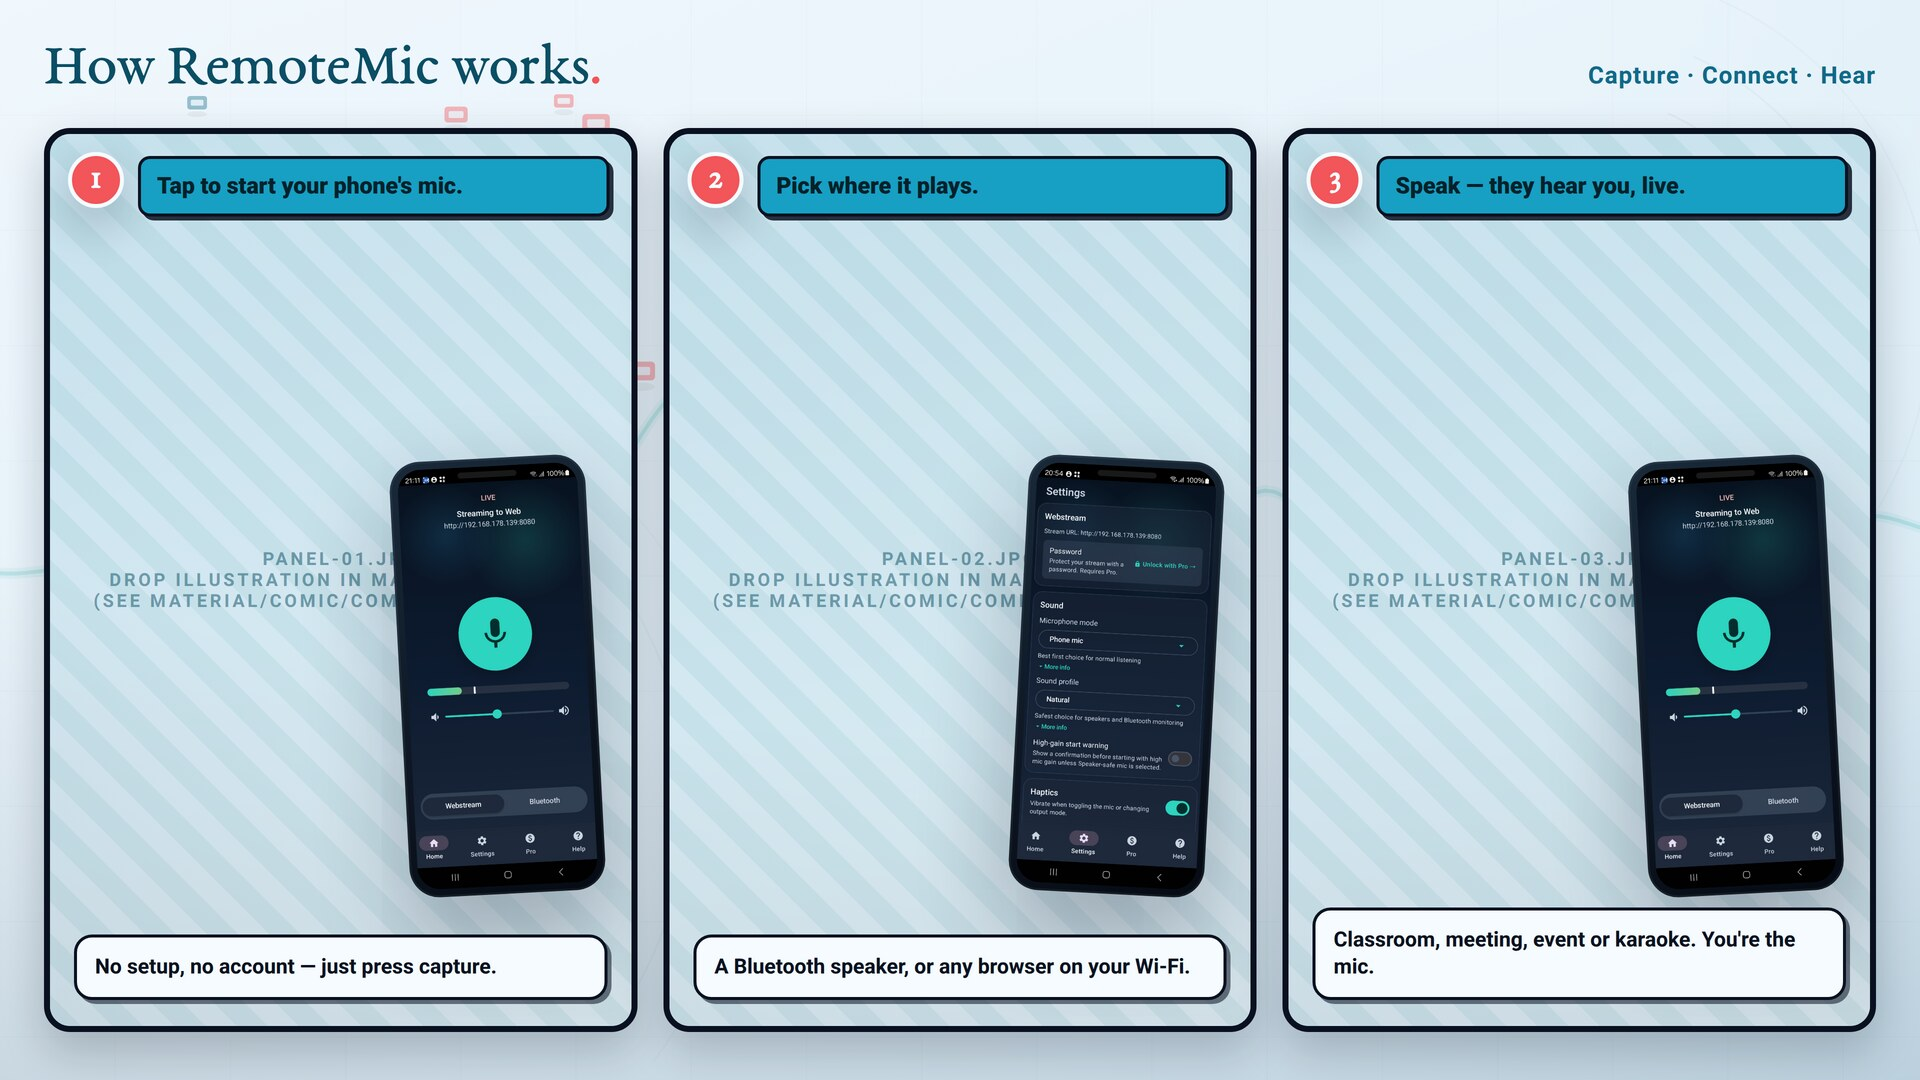
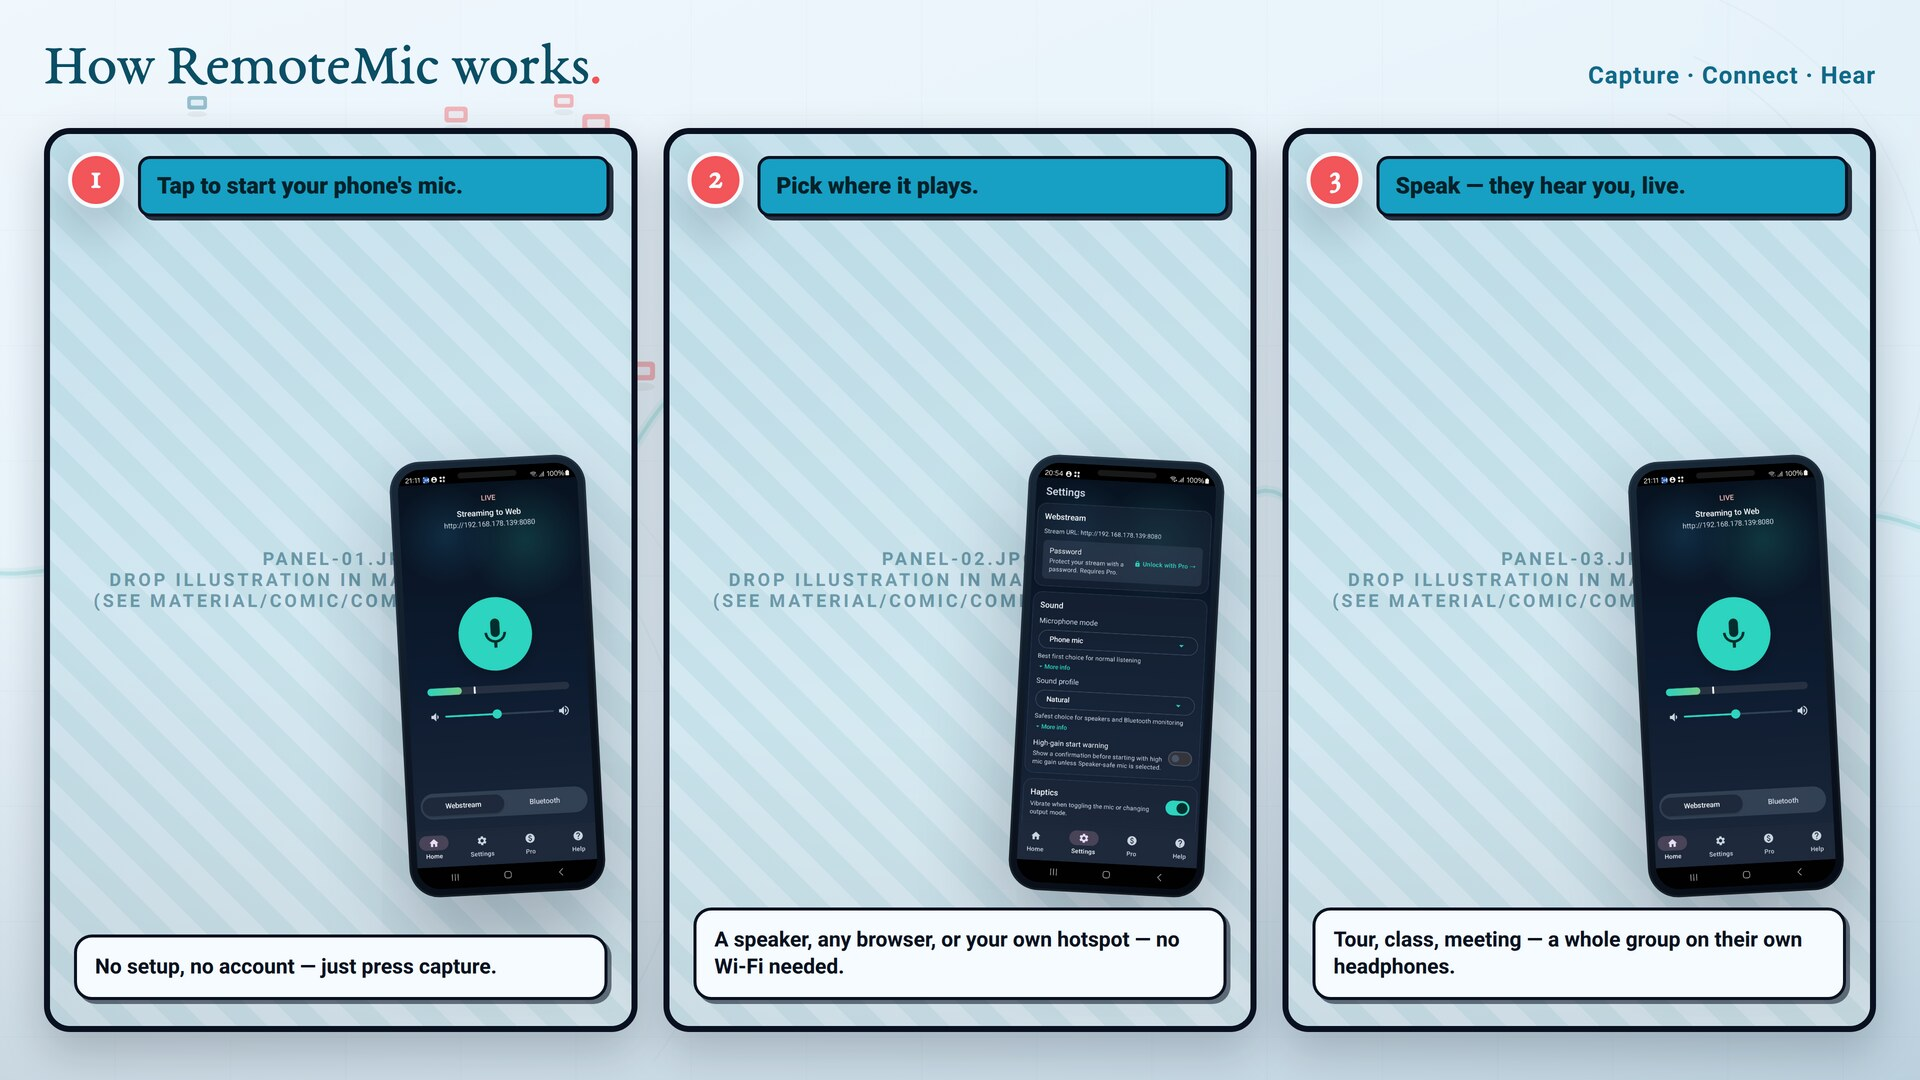
Publish: hotspot + group-on-headphones positioning; drop karaoke; new scenes

Changed region(s): [[0.3438, 0.825, 0.6562, 0.9167], [0.6875, 0.8556, 0.9375, 0.9167]]

diff --git a/index.html b/index.html
@@ -4,16 +4,17 @@
 <meta charset="utf-8">
 <meta name="viewport" content="width=device-width, initial-scale=1">
 <title>RemoteMic — Turn Your Phone Into a Wireless Microphone</title>
-<meta name="description" content="RemoteMic turns your Android phone into a wireless microphone. Stream your voice to a Bluetooth speaker or any browser on your Wi-Fi — instant, local, no account. Great for classrooms, meetings, events and karaoke.">
+<meta name="description" content="RemoteMic turns your Android phone into a wireless microphone. Stream your voice to a Bluetooth speaker, any browser on your Wi-Fi, or a hotspot you create — so a whole group listens on their own headphones, even with no Wi-Fi. Instant, local, no account. Great for tour guides, classrooms, assistive listening and meetings.">
 <link rel="canonical" href="https://northforceapps.github.io/remotemic/">
 <meta name="theme-color" content="#0c7e7b">
-<meta name="keywords" content="wireless microphone app, phone as microphone, Bluetooth microphone, phone to speaker, voice amplifier, megaphone app, PA system, microphone over Wi-Fi, karaoke microphone, Android microphone">
+<!-- Google Search Console verified via the google75215c703ae23b13.html file at site root. -->
+<meta name="keywords" content="wireless microphone app, phone as microphone, Bluetooth microphone, phone to speaker, voice amplifier, megaphone app, PA system, microphone over Wi-Fi, tour guide system, assistive listening app, group audio over hotspot, no Wi-Fi audio streaming, Android microphone">
 
 <!-- Open Graph -->
 <meta property="og:type" content="website">
 <meta property="og:site_name" content="RemoteMic">
 <meta property="og:title" content="RemoteMic — Turn Your Phone Into a Wireless Microphone">
-<meta property="og:description" content="Stream your phone's mic to a Bluetooth speaker or any browser on your Wi-Fi. Instant, local, no account.">
+<meta property="og:description" content="Stream your phone's mic to a Bluetooth speaker, any browser on your Wi-Fi, or your own hotspot — a whole group listens on their own headphones, no Wi-Fi needed. Instant, local, no account.">
 <meta property="og:url" content="https://northforceapps.github.io/remotemic/">
 <meta property="og:image" content="https://northforceapps.github.io/remotemic/assets/feature_graphic.png">
 <meta property="og:image:width" content="1024">
@@ -21,7 +22,7 @@
 <!-- Twitter -->
 <meta name="twitter:card" content="summary_large_image">
 <meta name="twitter:title" content="RemoteMic — Turn Your Phone Into a Wireless Microphone">
-<meta name="twitter:description" content="Stream your phone's mic to a Bluetooth speaker or any browser on your Wi-Fi. Instant, local, no account.">
+<meta name="twitter:description" content="Stream your phone's mic to a Bluetooth speaker, any browser on your Wi-Fi, or your own hotspot — a whole group listens on their own headphones, no Wi-Fi needed. Instant, local, no account.">
 <meta name="twitter:image" content="https://northforceapps.github.io/remotemic/assets/feature_graphic.png">
 
 <link rel="icon" href="assets/icon.png" type="image/png">
@@ -40,12 +41,12 @@
   "name":"RemoteMic",
   "operatingSystem":"Android 11+",
   "applicationCategory":"MultimediaApplication",
-  "description":"RemoteMic turns your Android phone into a wireless microphone. Stream live mic audio to a Bluetooth speaker or any browser on your local Wi-Fi/LAN — no account, no cloud.",
+  "description":"RemoteMic turns your Android phone into a wireless microphone. Stream live mic audio to a Bluetooth speaker, any browser on your local Wi-Fi/LAN, or a private hotspot you create — so a whole group listens on their own headphones, even with no Wi-Fi. No account, no cloud.",
   "url":"https://northforceapps.github.io/remotemic/",
   "image":"https://northforceapps.github.io/remotemic/assets/feature_graphic.png",
   "downloadUrl":"https://play.google.com/store/apps/details?id=com.stream.remotemic",
   "offers":{"@type":"Offer","price":"0","priceCurrency":"USD"},
-  "featureList":["Phone microphone to Bluetooth speaker or headset","Live audio streaming to any browser over Wi-Fi/LAN","One phone to many listeners","Real-time gain control and four voice profiles","Optional password protection for shared sessions","Works with the screen off","No account, local streaming"]
+  "featureList":["Phone microphone to Bluetooth speaker or headset","Live audio streaming to any browser over Wi-Fi/LAN","Create a private hotspot to stream with no Wi-Fi","One phone to many listeners on their own headphones","Real-time gain control and four voice profiles","Feedback-safe — listeners on personal headphones","Optional password protection for shared sessions","Works with the screen off","No account, local streaming"]
 }
 </script>
 <!-- Structured data: FAQ -->
@@ -57,6 +58,9 @@
     {"@type":"Question","name":"Can I use my phone as a microphone for a Bluetooth speaker?","acceptedAnswer":{"@type":"Answer","text":"Yes. Pair your Bluetooth speaker or headset, choose Bluetooth output in RemoteMic, and your voice plays through the speaker in real time."}},
     {"@type":"Question","name":"Does RemoteMic need an internet connection?","acceptedAnswer":{"@type":"Answer","text":"No. Core streaming runs on your local Wi-Fi/LAN. Listeners open a link in a browser on the same network — no account and no cloud upload."}},
     {"@type":"Question","name":"How many people can listen at once?","acceptedAnswer":{"@type":"Answer","text":"One phone can stream to many browser listeners on the same network at the same time. They just open the link you share."}},
+    {"@type":"Question","name":"What if there is no Wi-Fi?","acceptedAnswer":{"@type":"Answer","text":"RemoteMic can turn your phone into a private hotspot. Listeners scan one QR code to join the network and a second to open the stream — no router, fully offline. Ideal for tour guides and outdoor groups."}},
+    {"@type":"Question","name":"Can a whole group listen on their own headphones?","acceptedAnswer":{"@type":"Answer","text":"Yes. Share the link or join your hotspot and everyone listens on their own phone and headphones. Because each person is on personal earbuds rather than an open speaker, there is no feedback squeal — clear for every listener."}},
+    {"@type":"Question","name":"Can I use it with a loudspeaker or portable PA?","acceptedAnswer":{"@type":"Answer","text":"Yes. Pair a Bluetooth speaker or feed a portable PA and RemoteMic becomes a handheld mic for the room. Keep the speaker a step or two away from the phone and at a sensible volume — like any PA, a speaker placed right next to the mic can ring. For a hands-off, feedback-free setup, have listeners use their own headphones."}},
     {"@type":"Question","name":"Is RemoteMic free?","acceptedAnswer":{"@type":"Answer","text":"Yes, RemoteMic is free with a generous daily capture allowance. Pro removes the time limit, unlocks the full gain range, and adds password protection."}},
     {"@type":"Question","name":"Does it keep working with the screen off?","acceptedAnswer":{"@type":"Answer","text":"Yes. A foreground service keeps the microphone capturing and streaming reliably while the screen is off."}}
   ]
@@ -83,7 +87,7 @@
     <div>
       <span class="eyebrow">Wireless microphone for Android</span>
       <h1>Turn your phone into a wireless microphone.</h1>
-      <p class="lead">Speak into your phone and your voice comes out of a Bluetooth speaker — or any browser on your Wi-Fi. Instant, local, no account.</p>
+      <p class="lead">Speak into your phone and a whole group hears you — on a Bluetooth speaker, in any browser, or on their own headphones over a hotspot you create. No Wi-Fi, no account, no gear.</p>
       <div class="cta">
         <a class="btn" href="https://play.google.com/store/apps/details?id=com.stream.remotemic" rel="noopener">
           <svg viewBox="0 0 24 24" fill="currentColor"><path d="M3 3l13.5 9L3 21V3zm15 6.2L20.6 12 18 14.8 15.2 12 18 9.2z"/></svg>
@@ -91,7 +95,7 @@
         </a>
         <a class="btn ghost" href="#how">See how it works</a>
       </div>
-      <p class="note">No sign-up · works offline on your own network · 25+ languages</p>
+      <p class="note">No sign-up · works with no Wi-Fi — make your own hotspot · 25+ languages</p>
     </div>
     <div class="hero-phone"><img src="assets/ss-home.png" alt="RemoteMic streaming live to the web from an Android phone" width="300" height="667"></div>
   </div>
@@ -100,9 +104,9 @@
 <section id="features">
   <div class="wrap">
     <div class="section-head">
-      <span class="eyebrow">Two ways to be heard</span>
+      <span class="eyebrow">Three ways to be heard</span>
       <h2>Your voice, where people need it</h2>
-      <p>No studio mic, no PA rental, no cables. Just your phone and a speaker nearby.</p>
+      <p>No studio mic, no PA rental, no cables. Just your phone — and a network only if you want one.</p>
     </div>
     <div class="modes">
       <div class="mode">
@@ -114,6 +118,11 @@
         <span class="tag">Browser over Wi-Fi</span>
         <h3>Share one link, the whole room listens</h3>
         <p>RemoteMic shows a link. Anyone on the same Wi-Fi opens it in a browser to listen — many listeners at once, nothing to install.</p>
+      </div>
+      <div class="mode">
+        <span class="tag">No Wi-Fi? Make your own</span>
+        <h3>A private hotspot, fully offline</h3>
+        <p>RemoteMic turns this phone into a private hotspot. Listeners scan one QR to join, a second to open the stream — no router needed. Perfect outdoors or on the move.</p>
       </div>
     </div>
   </div>
@@ -128,7 +137,7 @@
     <div class="features">
       <div class="feature"><div class="ic"><svg viewBox="0 0 24 24" fill="none" stroke="currentColor" stroke-width="2"><path d="M13 2L4 14h7l-1 8 9-12h-7z"/></svg></div><h3>Ready in seconds</h3><p>Open it, tap once, you're live. No account, no setup, no extra gear.</p></div>
       <div class="feature"><div class="ic"><svg viewBox="0 0 24 24" fill="none" stroke="currentColor" stroke-width="2"><circle cx="12" cy="12" r="9"/><path d="M12 7v5l3 2"/></svg></div><h3>Long sessions</h3><p>Stream a whole class, talk or rehearsal — and it keeps running with the screen off.</p></div>
-      <div class="feature"><div class="ic"><svg viewBox="0 0 24 24" fill="none" stroke="currentColor" stroke-width="2"><path d="M3 11l18-5v12L3 13z"/><path d="M11 6v12"/></svg></div><h3>Tuned audio</h3><p>Real-time gain plus four voice profiles keep speech clear and feedback-free near speakers.</p></div>
+      <div class="feature"><div class="ic"><svg viewBox="0 0 24 24" fill="none" stroke="currentColor" stroke-width="2"><path d="M3 11l18-5v12L3 13z"/><path d="M11 6v12"/></svg></div><h3>Feedback-safe audio</h3><p>Real-time gain plus four voice profiles keep speech clear. Listeners on their own headphones means no feedback squeal — clear for everyone.</p></div>
       <div class="feature"><div class="ic"><svg viewBox="0 0 24 24" fill="none" stroke="currentColor" stroke-width="2"><rect x="3" y="11" width="18" height="11" rx="2"/><path d="M7 11V7a5 5 0 0110 0v4"/></svg></div><h3>Private by design</h3><p>Streams stay on your network. No cloud upload, no account. Add a password for shared sessions (Pro).</p></div>
       <div class="feature"><div class="ic"><svg viewBox="0 0 24 24" fill="none" stroke="currentColor" stroke-width="2"><rect x="4" y="3" width="16" height="18" rx="2"/><path d="M9 7h6M9 11h6M9 15h4"/></svg></div><h3>Tablet ready</h3><p>A two-pane layout adapts to tablets and landscape — handy propped up at a podium or event.</p></div>
       <div class="feature"><div class="ic"><svg viewBox="0 0 24 24" fill="none" stroke="currentColor" stroke-width="2"><circle cx="12" cy="12" r="10"/><path d="M2 12h20M12 2a15 15 0 010 20M12 2a15 15 0 000 20"/></svg></div><h3>25+ languages</h3><p>The interface is translated, so it feels native wherever you are.</p></div>
@@ -143,12 +152,12 @@
       <h2>Whenever you need to be heard</h2>
     </div>
     <div class="uses">
+      <div class="use"><div class="emoji">🎧</div><h3>Tour guide</h3><p>Lead an outdoor group on their own headphones — no Wi-Fi, no shouting.</p></div>
       <div class="use"><div class="emoji">🏫</div><h3>Classroom</h3><p>Reach every seat without raising your voice.</p></div>
+      <div class="use"><div class="emoji">🦻</div><h3>Assistive listening</h3><p>Every word right in their ears, at their own volume.</p></div>
       <div class="use"><div class="emoji">📊</div><h3>Meetings &amp; talks</h3><p>A mic for the room, instantly.</p></div>
       <div class="use"><div class="emoji">📣</div><h3>Small events</h3><p>Announcements without renting a PA.</p></div>
-      <div class="use"><div class="emoji">🎤</div><h3>Karaoke</h3><p>Sing through any Bluetooth speaker.</p></div>
-      <div class="use"><div class="emoji">🎸</div><h3>Rehearsal</h3><p>Monitor and amplify practice sessions.</p></div>
-      <div class="use"><div class="emoji">🔊</div><h3>Voice relay</h3><p>Talk through a speaker in the next room.</p></div>
+      <div class="use"><div class="emoji">🔊</div><h3>Bluetooth speaker</h3><p>Turn any portable speaker into your PA.</p></div>
     </div>
   </div>
 </section>
@@ -161,7 +170,7 @@
     </div>
     <div class="steps">
       <div class="step"><div class="n">1</div><h3>Tap to start your mic</h3><p>Open RemoteMic and start capture. No account, no setup.</p></div>
-      <div class="step"><div class="n">2</div><h3>Pick where it plays</h3><p>A paired Bluetooth speaker, or share the link for any browser on your Wi-Fi.</p></div>
+      <div class="step"><div class="n">2</div><h3>Pick where it plays</h3><p>A paired Bluetooth speaker, a link for any browser on your Wi-Fi, or your own hotspot when there's no network.</p></div>
       <div class="step"><div class="n">3</div><h3>Speak — they hear you</h3><p>Your voice plays live. Capture starts and stops on the phone, so you stay in control.</p></div>
     </div>
   </div>
@@ -171,7 +180,7 @@
     <img src="assets/slide-04-screenoff.jpg" alt="RemoteMic works with the screen off" loading="lazy">
     <img src="assets/slide-06-audio.jpg" alt="Tune the audio with gain and voice profiles" loading="lazy">
     <img src="assets/slide-07-bluetooth.jpg" alt="Send your voice straight to a Bluetooth speaker" loading="lazy">
-    <img src="assets/slide-08-usecases.jpg" alt="Classroom, meeting, event and karaoke use cases" loading="lazy">
+    <img src="assets/slide-08-usecases.jpg" alt="Tour guide, classroom, assistive listening and meeting use cases" loading="lazy">
   </div>
 </section>
 
@@ -216,6 +225,9 @@
     <details><summary>Can I use my phone as a microphone for a Bluetooth speaker?</summary><p>Yes. Pair your Bluetooth speaker or headset, choose Bluetooth output in RemoteMic, and your voice plays through the speaker in real time.</p></details>
     <details><summary>Does RemoteMic need an internet connection?</summary><p>No. Core streaming runs on your local Wi-Fi/LAN. Listeners open a link in a browser on the same network — no account and no cloud upload.</p></details>
     <details><summary>How many people can listen at once?</summary><p>One phone can stream to many browser listeners on the same network at the same time. They just open the link you share.</p></details>
+    <details><summary>What if there's no Wi-Fi?</summary><p>RemoteMic can turn your phone into a private hotspot. Listeners scan one QR code to join the network and a second to open the stream — no router, fully offline. Ideal for tour guides and outdoor groups.</p></details>
+    <details><summary>Can a whole group listen on their own headphones?</summary><p>Yes. Share the link or join your hotspot and everyone listens on their own phone and headphones. Because each person is on personal earbuds rather than an open speaker, there's no feedback squeal — clear for every listener.</p></details>
+    <details><summary>Can I use it with a loudspeaker or portable PA?</summary><p>Yes. Pair a Bluetooth speaker or feed a portable PA and RemoteMic becomes a handheld mic for the room. Keep the speaker a step or two away from the phone and at a sensible volume — like any PA, a speaker placed right next to the mic can ring. For a hands-off, feedback-free setup, have listeners use their own headphones instead.</p></details>
     <details><summary>Is RemoteMic free?</summary><p>Yes, RemoteMic is free with a generous daily capture allowance. Pro removes the time limit, unlocks the full gain range, and adds password protection.</p></details>
     <details><summary>Does it keep working with the screen off?</summary><p>Yes. A foreground service keeps the microphone capturing and streaming reliably while the screen is off.</p></details>
   </div>

diff --git a/google75215c703ae23b13.html b/google75215c703ae23b13.html
@@ -1,0 +1,1 @@
+google-site-verification: google75215c703ae23b13.html